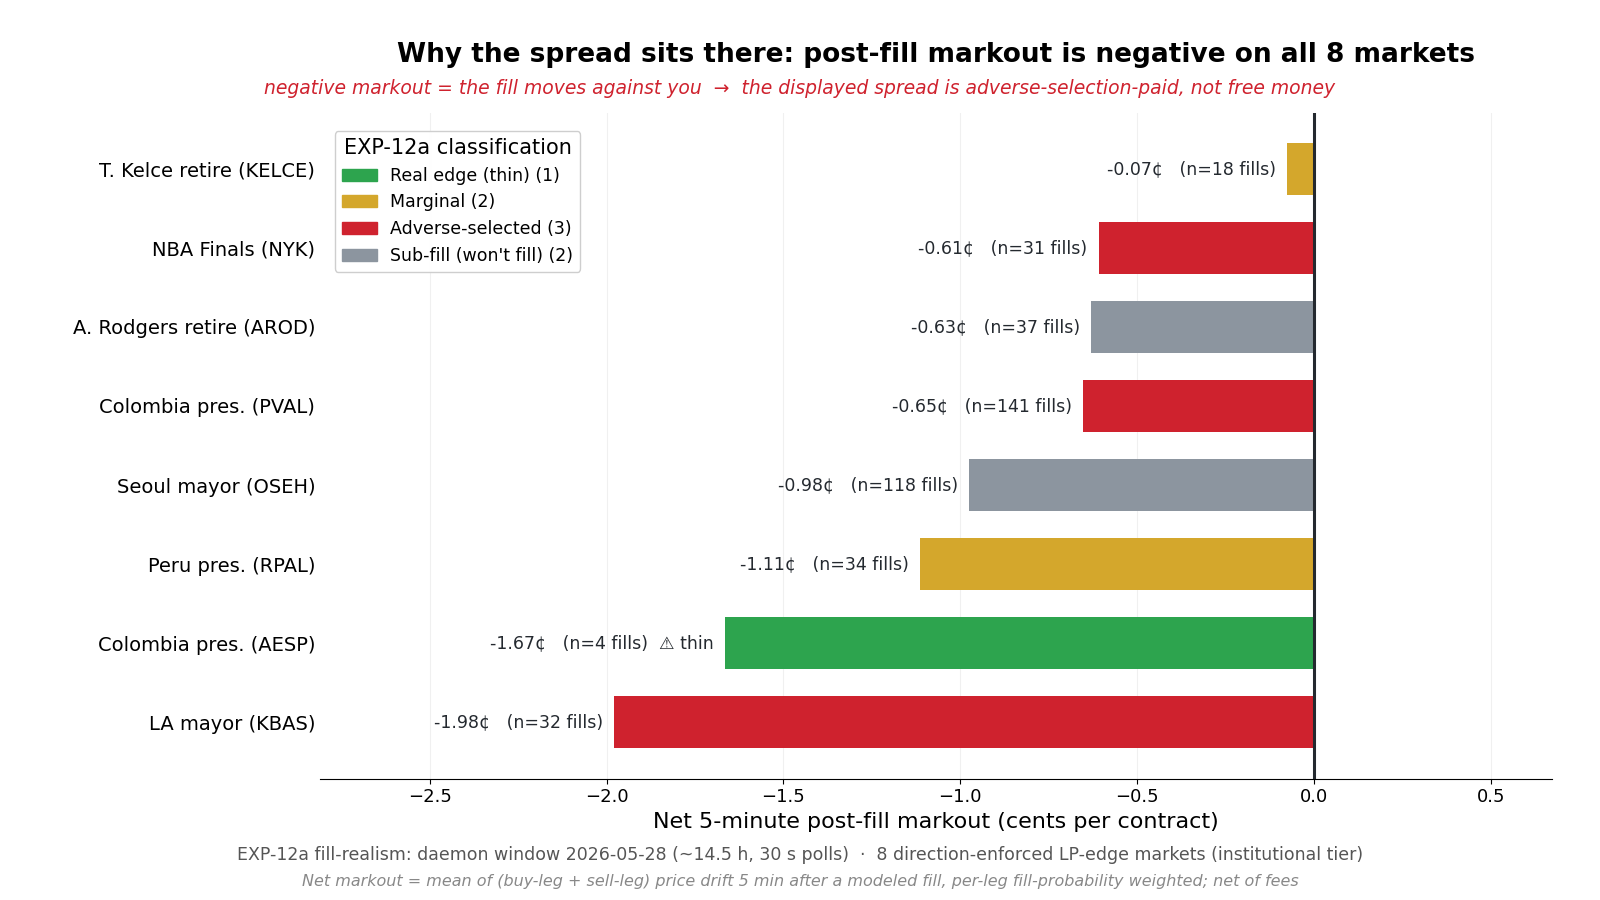
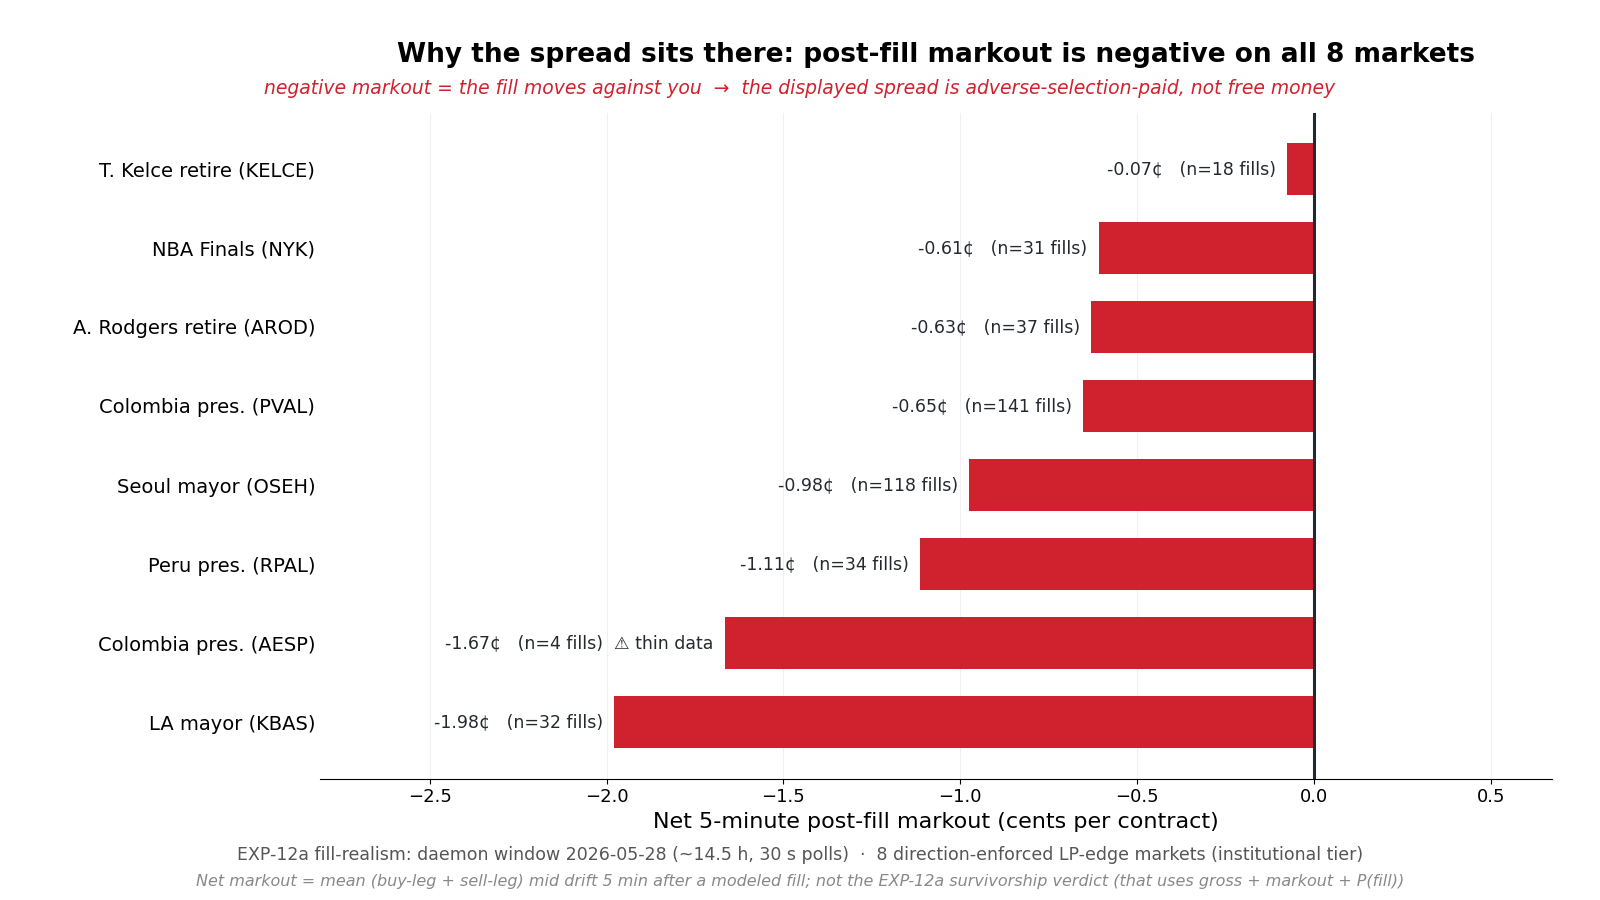
Fix markout figure: uniform bars, drop misleading verdict colors.
EXP-12a verdicts use gross + markout + P(fill), not markout rank alone
(AESP REAL_EDGE despite −1.67¢ markout). Color all bars uniformly; flag
thin data by n<10; footer notes survivorship vs markout.

diff --git a/scripts/fig_markout.py b/scripts/fig_markout.py
@@ -4,14 +4,17 @@ Resolves *why* the crossed cross-venue spread sits there untaken: post-fill
 markout is negative on every one of the 8 markets at the 5-minute horizon.
 The displayed edge is adverse-selection-paid spread, not free money.
 
+Bars are uniformly colored — EXP-12a verdicts (REAL_EDGE / MARGINAL / etc.)
+are driven by gross + markout + fill-adjusted expected edge, not markout
+alone, so coloring by verdict on a markout-only chart is misleading.
+
 DATA (read-only, values used as computed by EXP-12a — NOT recomputed):
   * data/processed/exp12a_fill_summary.csv   — net 5-min markout per market
-        (markout_net_mean_5min_c), EXP-12a verdict classification.
+        (markout_net_mean_5min_c).
   * data/processed/exp12a_markout_samples.csv — per-leg fill counts at the
         5-min horizon (buy_n_fills + sell_n_fills).
 
 Output: data/processed/fig_markout_substack.png   (new file only)
-No edits to src/, markets.yaml, or existing figures.
 
 Run:
     uv run python scripts/fig_markout.py
@@ -29,7 +32,6 @@ os.environ.setdefault("MPLCONFIGDIR", tempfile.mkdtemp(prefix="mpl-"))
 import matplotlib
 
 matplotlib.use("Agg")
-import matplotlib.patches as mpatches  # noqa: E402
 import matplotlib.pyplot as plt  # noqa: E402
 import pandas as pd  # noqa: E402
 
@@ -38,7 +40,9 @@ FILL_SUMMARY = ROOT / "data" / "processed" / "exp12a_fill_summary.csv"
 MARKOUT_SAMPLES = ROOT / "data" / "processed" / "exp12a_markout_samples.csv"
 OUT_PNG = ROOT / "data" / "processed" / "fig_markout_substack.png"
 
-# Readable labels for the 8-market panel.
+BAR_COLOR = "#cf222e"  # uniform: all markouts adverse
+THIN_FILL_N = 10       # EXP-12a low-confidence threshold (nb+ns)
+
 LABELS = {
     "co_aesp": "Colombia pres. (AESP)",
     "co_pval": "Colombia pres. (PVAL)",
@@ -48,14 +52,6 @@ LABELS = {
     "nyk": "NBA Finals (NYK)",
     "arod": "A. Rodgers retire (AROD)",
     "kelce": "T. Kelce retire (KELCE)",
-}
-
-# Classification -> (display, color). REAL_EDGE is green but flagged thin.
-CLASS_STYLE = {
-    "REAL_EDGE": ("Real edge (thin)", "#2da44e"),
-    "MARGINAL": ("Marginal", "#d4a72c"),
-    "ADVERSE-SELECTED": ("Adverse-selected", "#cf222e"),
-    "SUB-FILL": ("Sub-fill (won't fill)", "#8c959f"),
 }
 
 
@@ -69,12 +65,13 @@ def load() -> pd.DataFrame:
     fills = samp5.set_index("market")["n_fills"]
     summ = summ.copy()
     summ["n_fills"] = summ["market"].map(fills)
-    # The plotted quantity: net 5-min markout (mean), as computed by EXP-12a.
     summ["markout"] = summ["markout_net_mean_5min_c"]
     summ["markout_median"] = summ["markout_net_median_5min_c"]
+    summ["realized_c"] = summ["gross_edge_c"] + summ["markout_net_mean_5min_c"]
+    summ["adj_central_c"] = summ["adj_central"] * 100.0
     return summ[[
         "market", "markout", "markout_median", "verdict", "n_fills",
-        "gross_edge_c", "p_fill_5min",
+        "gross_edge_c", "realized_c", "adj_central_c", "p_fill_5min",
     ]]
 
 
@@ -89,30 +86,25 @@ def make_figure(df: pd.DataFrame) -> None:
         "axes.facecolor": "white",
     })
 
-    # Sort least-negative (top) to most-negative (bottom).
     d = df.sort_values("markout", ascending=True).reset_index(drop=True)
 
     fig, ax = plt.subplots(figsize=(16, 9), dpi=100)
     ypos = range(len(d))
-    colors = [CLASS_STYLE[v][1] for v in d["verdict"]]
 
-    ax.barh(list(ypos), d["markout"], color=colors, height=0.66, zorder=3)
+    ax.barh(list(ypos), d["markout"], color=BAR_COLOR, height=0.66, zorder=3)
 
     ax.set_yticks(list(ypos))
     ax.set_yticklabels([LABELS.get(m, m) for m in d["market"]])
-
-    # Emphasized zero line.
     ax.axvline(0, color="#24292f", lw=2.2, zorder=4)
 
     xmin = d["markout"].min()
     ax.set_xlim(xmin * 1.42, abs(xmin) * 0.34)
 
-    # Per-bar annotation: value + n fills (+ thin-edge flag).
     for i, row in d.iterrows():
         val = row["markout"]
         label = f"{val:.2f}¢   (n={int(row['n_fills'])} fills)"
-        if row["verdict"] == "REAL_EDGE":
-            label += "  ⚠ thin"
+        if int(row["n_fills"]) < THIN_FILL_N:
+            label += "  ⚠ thin data"
         ax.annotate(
             label,
             xy=(val, i), xytext=(-8, 0), textcoords="offset points",
@@ -124,7 +116,6 @@ def make_figure(df: pd.DataFrame) -> None:
         "Why the spread sits there: post-fill markout is negative on all 8 markets",
         pad=36, fontweight="bold",
     )
-    # Red subtitle: the takeaway, full-width so it never collides with bars.
     fig.text(
         0.5, 0.902,
         "negative markout = the fill moves against you  →  the displayed spread is "
@@ -137,20 +128,6 @@ def make_figure(df: pd.DataFrame) -> None:
     ax.tick_params(axis="y", length=0)
     ax.grid(axis="x", alpha=0.18, zorder=0)
 
-    # Legend by EXP-12a classification (counts in label).
-    counts = d["verdict"].value_counts()
-    order = ["REAL_EDGE", "MARGINAL", "ADVERSE-SELECTED", "SUB-FILL"]
-    handles = [
-        mpatches.Patch(
-            color=CLASS_STYLE[v][1],
-            label=f"{CLASS_STYLE[v][0]} ({int(counts.get(v, 0))})",
-        )
-        for v in order
-    ]
-    ax.legend(handles=handles, loc="upper left", fontsize=12.5,
-              frameon=True, framealpha=0.95, title="EXP-12a classification",
-              bbox_to_anchor=(0.005, 0.985))
-
     fig.text(
         0.5, 0.045,
         "EXP-12a fill-realism: daemon window 2026-05-28 (~14.5 h, 30 s polls)  ·  "
@@ -159,8 +136,8 @@ def make_figure(df: pd.DataFrame) -> None:
     )
     fig.text(
         0.5, 0.016,
-        "Net markout = mean of (buy-leg + sell-leg) price drift 5 min after a modeled fill, "
-        "per-leg fill-probability weighted; net of fees",
+        "Net markout = mean (buy-leg + sell-leg) mid drift 5 min after a modeled fill; "
+        "not the EXP-12a survivorship verdict (that uses gross + markout + P(fill))",
         ha="center", fontsize=11.5, color="#888888", style="italic",
     )
 
@@ -181,17 +158,23 @@ def main() -> int:
     for _, r in d.iterrows():
         flag = "  <-- POSITIVE!" if r["markout"] > 0 else ""
         print(f"  {LABELS.get(r['market'], r['market']):26s} "
-              f"{r['markout']:7.3f}c  (median {r['markout_median']:6.2f}c)  "
-              f"n={int(r['n_fills']):>3d}  {r['verdict']:16s}{flag}")
+              f"markout {r['markout']:7.3f}c  "
+              f"gross {r['gross_edge_c']:+.3f}c  "
+              f"realized {r['realized_c']:+.3f}c  "
+              f"adj_central {r['adj_central_c']:+.3f}c/ct  "
+              f"n={int(r['n_fills']):>3d}  {r['verdict']}{flag}")
     print("-" * 74)
     print(f"  markets with NEGATIVE net 5-min markout: "
           f"{int((d['markout'] <= 0).sum())} of {len(d)}")
     if n_pos:
-        print(f"  WARNING: {n_pos} market(s) computed POSITIVE — narrative says all ≤0!")
-    else:
-        print("  all 8 ≤ 0 — consistent with the toxic-spread narrative.")
-    print("  classification counts:",
-          dict(d["verdict"].value_counts()))
+        print(f"  WARNING: {n_pos} market(s) computed POSITIVE")
+    print()
+    print("  EXP-12a verdict driver (NOT markout rank alone):")
+    print("    SUB-FILL:        P(both fill @5min) < 5%")
+    print("    ADVERSE-SELECTED: gross + markout <= 0  (realized edge)")
+    print("    REAL_EDGE:       realized > 0 AND adj_central >= 0.05c/ct")
+    print("    MARGINAL:        realized > 0 AND adj_central < 0.05c/ct")
+    print("    adj_central = P(fill@5min) * (gross + markout) in $/ct")
     print("=" * 74)
     print(f"  wrote {OUT_PNG.relative_to(ROOT)}")
     return 0
